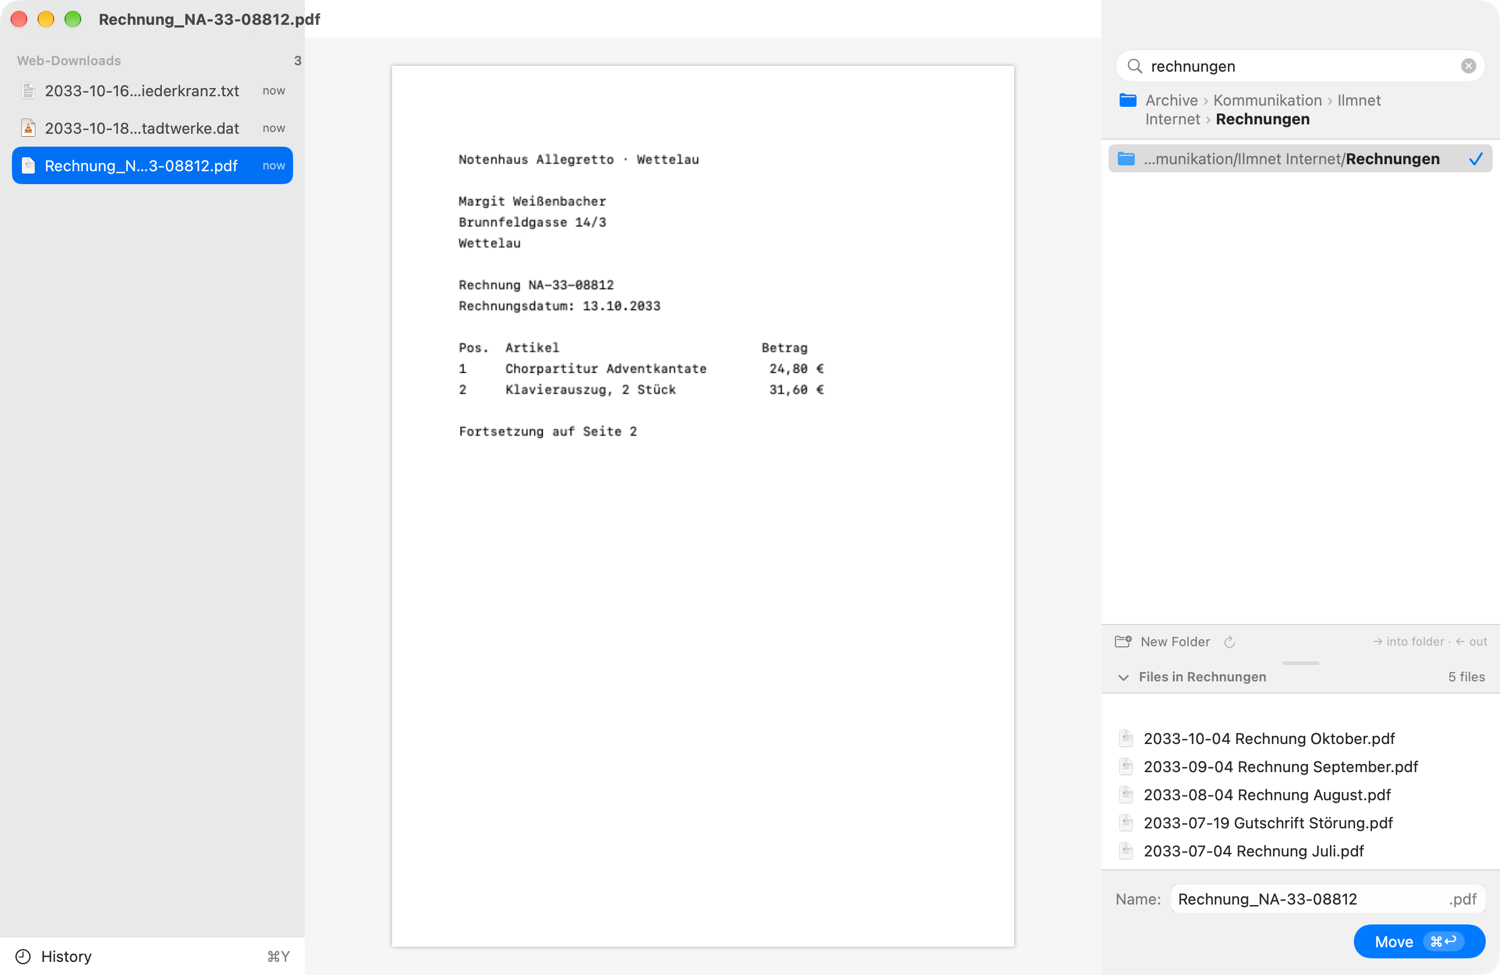
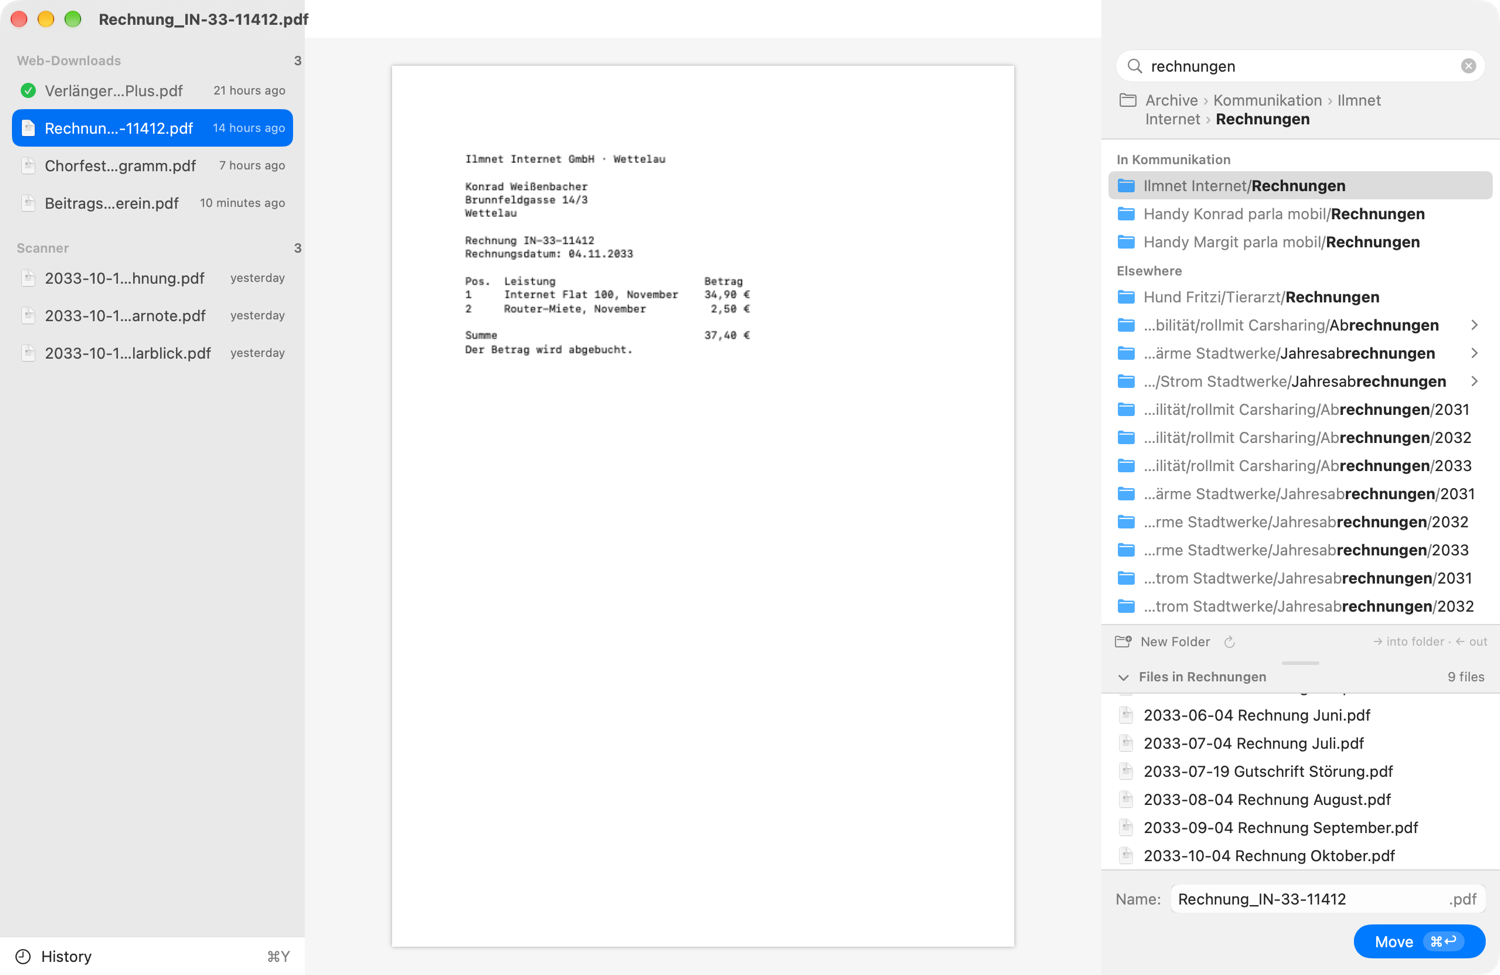
README: document opening the destination folder; richer screenshot
The screenshot now shows two inboxes, a search with In and Elsewhere groups and a
filled folder contents list, all from the fictional sample archive.

diff --git a/README.md b/README.md
@@ -48,7 +48,9 @@ anything:
    The search covers the whole archive; while you are inside a folder, its own matches come first. Press **Tab** (or
    **Return**) to choose the highlighted folder. A check mark appears and the destination is shown as a path.
    You can also browse: → steps into the highlighted folder, ← (or Backspace in an empty search field) steps out,
-   and ⌘↑ jumps to the archive's top folder.
+   and ⌘↑ jumps to the archive's top folder. To look at a folder in Finder, right-click its row in the list for
+   **Open in Finder** or **Reveal in Finder**, or choose **File › Open Destination in Finder** (⇧⌘O), which opens the
+   chosen folder, or else the highlighted one. A folder that does not exist yet has neither.
 3. **Name the file.** The name field starts with the file's current name, selected, so typing replaces it. The
    extension is fixed after the field. The ↺ button (or ⇧⌘R) restores the original name. Clicking a file in the
    folder's file list copies its name into the field. If the folder already has a file with that name, Docsort says
@@ -128,6 +130,7 @@ Every command is in the menu bar.
 | ⌥⌘Z | Move Back to Inbox (Put Back for a trashed file) |
 | ⌘O | Open the file in its default app |
 | ⌥⌘R | Reveal the file in Finder |
+| ⇧⌘O | Open the destination folder (chosen, else highlighted) in Finder |
 | ⌘Y | History |
 | ⌘R | Refresh inboxes and archive |
 | ⌥⌘I | Show / hide the filing panel |
